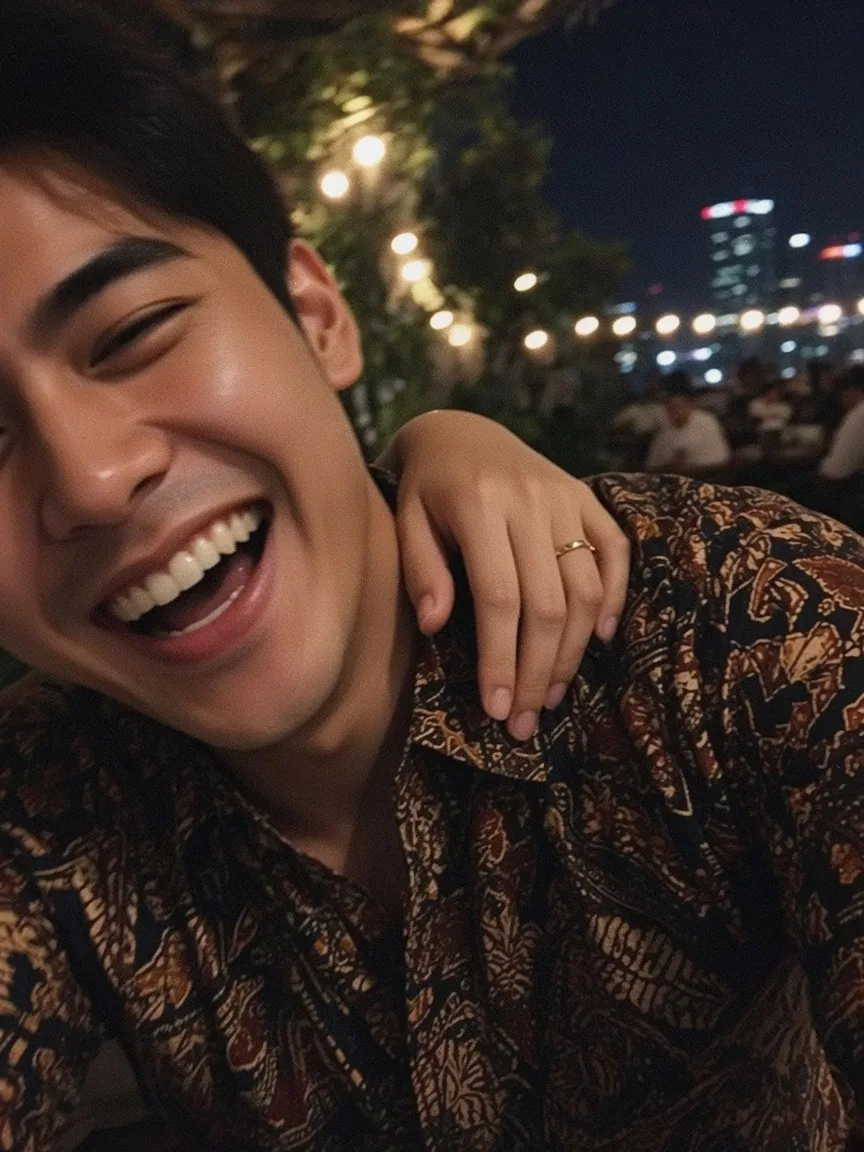
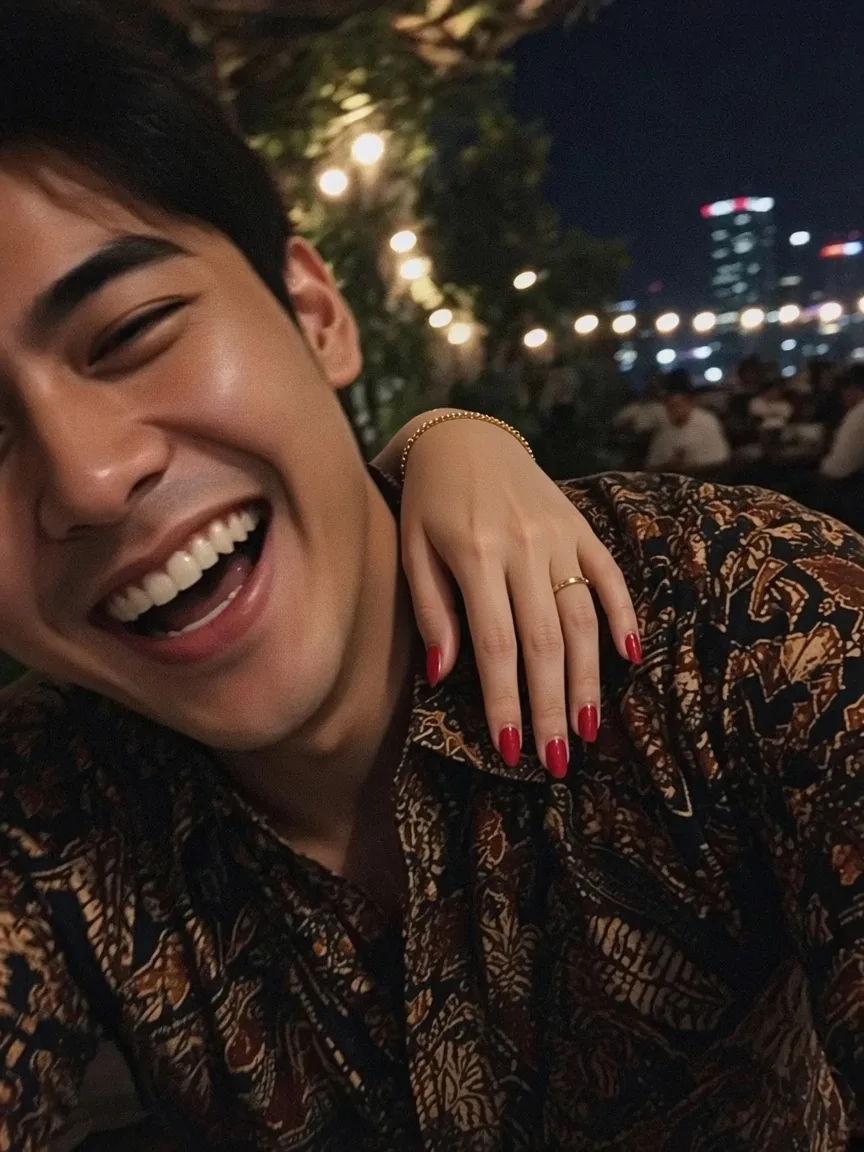
affair ep1 v8: chat back waits, no-chat restore opens Chat, selfie hand red nails+bracelet

diff --git a/affair/phone.js b/affair/phone.js
@@ -56,7 +56,7 @@ function build(){
     case 'clog':base({k:'clog',row:b.row,swipe:b.swipe,gone:b.gone,at:st.last&&st.last.callAt});push(b,{txt:b.gone?UI.deleted:(b.row&&b.row.t)});break;
     case 'contact':base({k:'contact',num:b.num,name:b.name,res:b.res});push(b,{txt:b.res?UI.cDup:''});break;
     case 'gal2':base({k:'gal2',m:b.m,at:b.at,i:b.i});push(b,{txt:b.m==='photo'?'x'.repeat(50):''});break;
-    case 'home':base({k:'hub'});push(b);break;
+    case 'home':base({k:'hub',end:b.end});push(b);break;
     case 'snap':st.ov=st.ov.filter(o=>o.k!=='pop'&&o.k!=='inner');st.ov.push({k:'snap',t:b.t});push(b,{txt:b.t});break;
     case 'myshot':{const src=F.find(f=>f.b.id===b.ref);if(src){base({k:'myshot',src:{...clone(src.v),hl:1},at:src.clock,shower:src.shower,left:src.left})}push(b,{txt:'x'.repeat(30)});break}
     case 'epend':base({k:'epend',tease:b.tease});push(b,{wait:'end'});st.stop=true;return;
@@ -132,7 +132,7 @@ function viewHTML(f){
   case 'thread':{
    const th=TH[v.th];
    const ms=v.msgs.map(m=>m.k==='sys'?`<div class="sysm">🧹 ${T(m.t)}</div>`:m.vn?`<div class="m them"><div class="mb"><div class="vnm${v.tr?'':' pulse'}"><i>▶</i>${'<s></s>'.repeat(24)}<small>${esc(m.vn)}</small></div>${v.tr?`<span class="vt new"><small>${T(UI.tr)}</small>${T(v.tr)}</span>`:''}<span class="mt">${esc(m.time)}</span></div></div>`:`<div class="m them"><div class="mb${L(m.t)==='❤'?' emo':''}">${T(m.t)}<span class="mt">${esc(m.time)}</span></div></div>`).join('');
-   return `<div class="app chat">${sbHTML(f)}<div class="ch"><span class="bk">‹</span>${av('B')}<div><b>${T(th.name)}</b><small>${esc(th.sub)}</small></div><span class="ci">📞</span></div><div class="msgs">${ms}</div></div>`}
+   return `<div class="app chat">${sbHTML(f)}<div class="ch"><span class="bk" data-tgt="back">‹</span>${av('B')}<div><b>${T(th.name)}</b><small>${esc(th.sub)}</small></div><span class="ci">📞</span></div><div class="msgs">${ms}</div></div>`}
   case 'gallery':
    return `<div class="app gallery">${sbHTML(f,0)}<div class="gh"><span class="bk">‹</span><b>${T(UI.gallery)}</b></div><div class="gt">🔒 ${T(v.t)}</div><div class="gfocus${v.zoomed?' zoomed':''}"><img src="assets/${v.focus}" alt=""></div><div class="gcap">ⓘ ${T(v.cap)}</div></div>`;
   case 'ride':
@@ -147,9 +147,9 @@ function viewHTML(f){
    return `<div class="app clog">${sbHTML(f)}<div class="lh"><b>${T(UI.clogT)}</b></div><div class="csec">${T(UI.today)}</div>${row}${v.gone?`<div class="toast">🗑 ${T(UI.deleted)}</div>`:''}<div class="csec">${T(UI.earlier)}</div>${CLOG_OLD.map(r=>`<div class="crow old"><div class="crin"><span class="pav c3">${esc(L(r.name)[0])}</span><div class="lmid"><b class="${r.miss?'miss':''}">${T(r.name)}</b><p>${T(r.t)}</p></div><small>${T(r.time)}</small></div></div>`).join('')}</div>`}
   case 'hub':{
    const ic=APPS.map(a=>{const done=f.got.includes(a.id);const can=!done&&a.cost<=f.left&&!v.peek;
-     return `<button class="hubic ${done?'done':can?'can':'cant'}" data-app="${a.id}"${can&&f.b.wait!==undefined?'':''}><span class="ai" style="background:${a.col}">${a.ic}</span><small>${T(a.name)}</small><em class="cost">${done?'✓':(can?'':'✕ ')+a.cost+' '+T(UI.min)}</em></button>`}).join('');
+     return `<button class="hubic ${v.end?'':done?'done':can?'can':'cant'}" data-app="${a.id}" data-tgt="app-${a.id}"${can&&f.b.wait!==undefined?'':''}><span class="ai" style="background:${a.col}">${a.ic}</span><small>${T(a.name)}</small><em class="cost">${done?'✓':(can?'':'✕ ')+a.cost+' '+T(UI.min)}</em></button>`}).join('');
    const dc=DECOR.map(d=>`<span class="hubic decor"><span class="ai">${d.ic}</span><small>${T(d.name)}</small></span>`).join('');
-   return `<div class="app hub"><img class="wallimg" src="assets/p-wall.webp" alt="">${sbHTML(f,1)}<div class="hubgrid">${ic}${dc}</div></div>`}
+   return `<div class="app hub${v.end?' end':''}"><img class="wallimg" src="assets/p-wall.webp" alt="">${sbHTML(f,1)}<div class="hubgrid">${ic}${dc}</div></div>`}
   case 'gal2':{
    const ss=(k)=>{const a=GSHOTS[k];return `<div class="gss"><small>${T(a[0])}</small><b>${T(a[1])}</b><p>${T(a[2])}</p><em>${T(a[3])}</em></div>`};
    const tile=(p)=>p[0][0]==='@'?`<span class="gtile ss">${ss(p[0].slice(1))}<i>${esc(p[3])}</i></span>`:`<span class="gtile"><img src="assets/${p[0]}.webp" alt="" style="object-position:${p[1]};transform:scale(${p[2]})"><i>${esc(p[3])}</i></span>`;

diff --git a/affair/script.js b/affair/script.js
@@ -68,7 +68,8 @@ const APPS=[
      {t:'Mas, barang besok tetap ya?|哥，明天的货照旧吧？',time:'22.31'},
      {t:'Istrimu udah tidur?|你老婆睡了没？',time:'22.31'}]},
    {k:'act',key:'trans',mode:'tap',in:'chat',btn:'📝 Ubah suara ke teks|📝 语音转文字'},
-   {k:'replay',th:'budi',tr:VN_TR}]},
+   {k:'replay',th:'budi',tr:VN_TR},
+   {k:'act',key:'cback',mode:'target',tgt:'back'}]},
  {id:'gal',name:'Galeri|相册',ic:'🖼',col:'#d98a1c',cost:4,re:[
    {k:'gal2',m:'grid'},
    {k:'inner',t:'Malam tanggal 12 itu, dia ngapain?|12号那天晚上，他在干嘛？'},
@@ -152,6 +153,9 @@ const BEATS=[
  // ---------- the water stops ----------
  {k:'dark',shower:2,fx:'shake',t:'Air berhenti.|水停了。',sub:'{t}'},
  {k:'inner',when:'got:chat',t:'Pesannya udah kebaca. Dia bakal tahu.|消息已经被我看成已读了。他会发现的。'},
+ {k:'inner',when:'!got:chat',t:'Lihat sekali aja…|……就看一眼。'},
+ {k:'home',when:'!got:chat',end:1},
+ {k:'act',when:'!got:chat',key:'ochat',mode:'target',tgt:'app-chat'},
  {k:'list',at:'top',back:1},
  {k:'act',when:'got:chat',key:'mk1',mode:'target',in:'list',tgt:'budi'},
  {k:'list',when:'got:chat',at:'top',menu:1},

diff --git a/affair/phone.css b/affair/phone.css
@@ -308,3 +308,9 @@ b.miss{color:#d0342c}
 .lmenu .tgt{cursor:pointer;animation:tglow 1.6s ease-in-out infinite}
 .lrt em.rp{animation:pop .5s both}
 .still .rrow,.still .brow,.still .bdet,.still .rdet,.still .lmenu,.still .lrt em{animation:none}.still .rrow.tgt,.still .lmenu .tgt{animation:gtg 1.6s ease-in-out infinite}.still .lmenu .tgt{animation-name:tglow}
+/* v8 */
+.chat .bk.tgt{cursor:pointer;border-radius:10px;padding:0 6px;animation:gtg 1.6s ease-in-out infinite}
+.still .vt.new{animation:none}
+.hub.end .cost{display:none}
+.hub.end .hubic .ai{filter:brightness(.6)}
+.hub.end .hubic.tgt .ai{filter:none;animation:glow 1.8s ease-in-out infinite}.hub.end .hubic.tgt{cursor:pointer}
